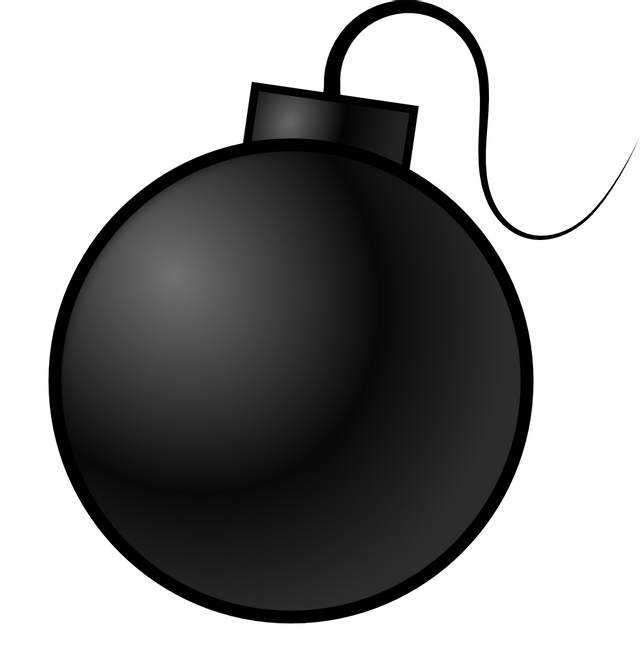
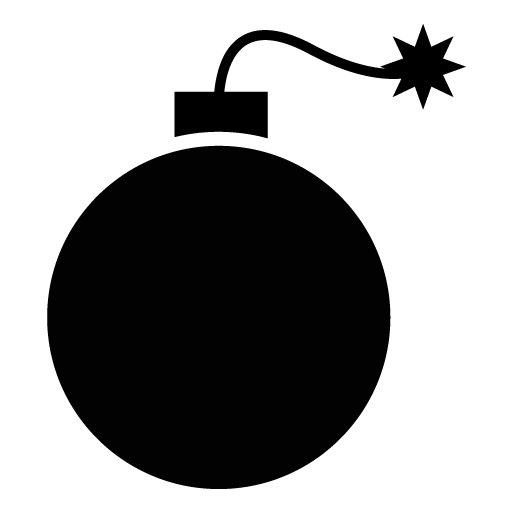
GameController.js: correção dos bugs para exibr modal e  alteração nas images (bomba e bandeira); Style.css: Alteração na classe img

diff --git a/scripts/controllers/GameController.js b/scripts/controllers/GameController.js
@@ -3,16 +3,20 @@ class GameController{
         this.boardEl = document.querySelector('#board')
         this.levels = document.querySelectorAll('ul > li > a')
         this.modalEl = new bootstrap.Modal(document.querySelector('#messageModal'))
-        this.isEnableClick
+        this.matrix
         this.lines = 20
         this.columns = 20
         this.bombs = 40
+        this.isEnableClick
         this.score = {
             max: null, 
             current: null,
             displayedMessage: false
         }
-        this.matrix
+        this.settingsModal = {
+            title: null,
+            textBody: null
+        }
         this.initialize()
     }
     
@@ -32,17 +36,16 @@ class GameController{
         );
     }
 
+    setSettingsModal(title, textBody){
+        this.settingsModal.title = title
+        this.settingsModal.textBody = textBody
+    }
+
     checkWon(){
         if(this.score.current == this.score.max){
             this.isEnableClick = false
-            if(!this.score.displayedMessage){
-                this.score.displayedMessage = true
-                let settingsModal = {
-                    title: 'Você Venceu!',
-                    textBody: 'Parabéns, você venceu a partida!'
-                }
-                this.displayMessage(settingsModal, false)
-            }
+            this.setSettingsModal('Você Venceu!', 'Parabéns, você venceu a partida!')
+            this.displayMessage(this.settingsModal, false)
         }    
     }
 
@@ -85,22 +88,22 @@ class GameController{
             this.lines = [...customForm.elements][0].value
             this.columns = [...customForm.elements][1].value
             this.bombs = [...customForm.elements][2].value
-            let settingsModal = {
-                title: 'Ops, algo deu errado!',
-                textBody: null
-            }
+            let titleModal = 'Ops, algo deu errado!'
+            let textBody
             
             if(this.lines != '' && this.columns != '' && this.bombs != ''){
                 let dimensions = this.lines * this.columns
                 if(this.bombs <= dimensions)
                     this.createMatrix()
                 else{
-                    settingsModal.textBody = 'O número de bombas deve ser menor ou igual a ' + dimensions
-                    this.displayMessage(settingsModal, true)
+                    textBody = `O número de bombas deve ser menor ou igual a ${ dimensions}`
+                    this.setSettingsModal(titleModal, textBody)
+                    this.displayMessage(this.settingsModal, true)
                 }
             }else{
-                settingsModal.textBody = 'Preencha todos os campos'
-                this.displayMessage(settingsModal, true) 
+                textBody = 'Preencha todos os campos!'
+                this.setSettingsModal(titleModal, textBody)
+                this.displayMessage(this.settingsModal, true) 
             }    
         })
     }
@@ -192,11 +195,6 @@ class GameController{
                 }
             }
         }
-        let settingsModal = {
-            title: 'Você Perdeu!',
-            textBody: 'Que pena, você perdeu a partida!',
-        }
-        this.displayMessage(settingsModal, false)
     }
 
     openSquareAround(l, c){
@@ -235,6 +233,8 @@ class GameController{
                 if(valueSquare == '-1'){
                     this.gameOver(line, column)
                     this.isEnableClick = false
+                    this.setSettingsModal('Você Perdeu!', 'Que pena, você perdeu a partida!')
+                    this.displayMessage(this.settingsModal, false)
                 }else if(valueSquare == '0')
                     this.openSquareAround(line, column)
                 else{
@@ -243,22 +243,23 @@ class GameController{
                     square.className = 'boardSquareOpen'
                 }
             }
+
+            this.checkWon()
         }else{
-            let settingsModal = {
-                title: null,
-                textBody: null
-            }
+            let titleModal
+            let textBody
+            
             if(this.score.displayedMessage){
-                settingsModal.title = 'Você Venceu!'
-                settingsModal.textBody = 'Parabéns, você venceu a partida!'
+                titleModal = 'Você Venceu!'
+                textBody = 'Parabéns, você venceu a partida!'
             }else{
-                settingsModal.title = 'Você Perdeu!'
-                settingsModal.textBody = 'Que pena, você perdeu a partida!'
+                titleModal = 'Você Perdeu!'
+                textBody = 'Que pena, você perdeu a partida!'
             }
-            this.displayMessage(settingsModal, false)
+
+            this.setSettingsModal(titleModal, textBody)
+            this.displayMessage(this.settingsModal, false)
         }
-        
-        this.checkWon()
     }
 
     generateBombs(){
@@ -269,7 +270,7 @@ class GameController{
                 c = this.getRandomInt(0, this.columns)   
             }while(this.matrix[l][c].dataset.valueSquare != '0')
             this.matrix[l][c].dataset.valueSquare = '-1'
-            this.matrix[l][c].style.backgroundColor  = 'red' //Temporário (Coloca posição com bomba em vermelho)
+            // this.matrix[l][c].style.backgroundColor  = 'red' //Temporário (Coloca posição com bomba em vermelho)
         }
     }
 
@@ -306,6 +307,7 @@ class GameController{
         this.isEnableClick = true
         this.score.max = this.lines*this.columns - this.bombs
         this.score.current = 0
+        this.score.displayedMessage = false
         this.matrix = new Array(this.lines)
 
         for(let i=0; i<this.lines; i++)

diff --git a/style.css b/style.css
@@ -5,6 +5,9 @@ body {
 img{
     width: 70%;
     height: 70%;
+    display: block;
+    margin-left: auto;
+    margin-right: auto;
 }
 
 #menu{
